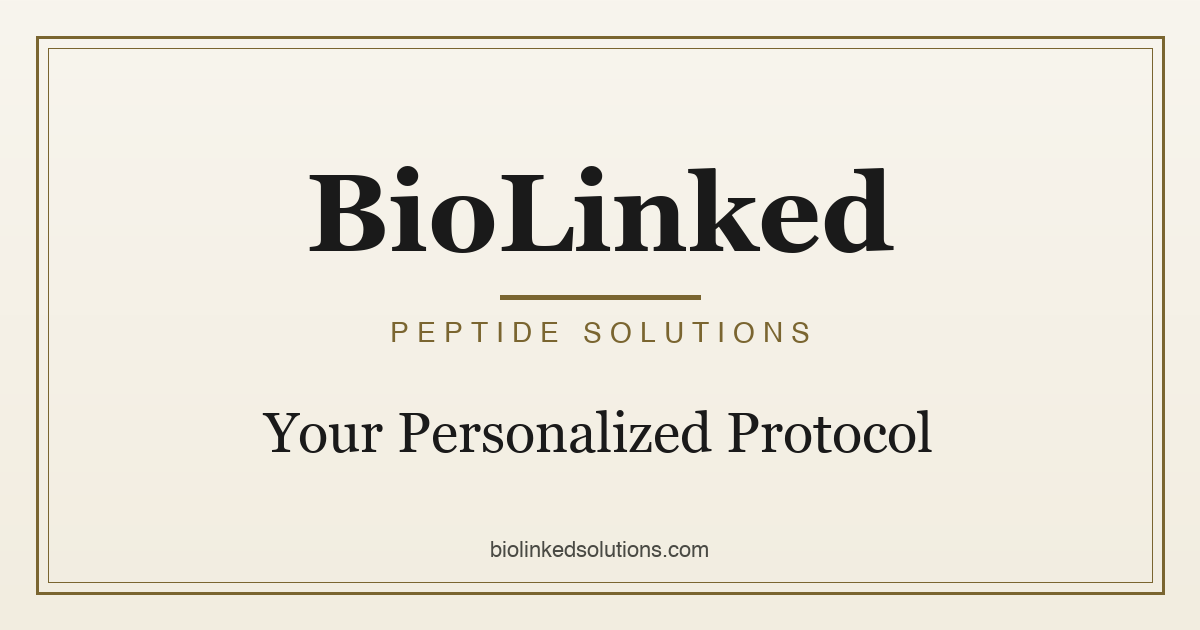
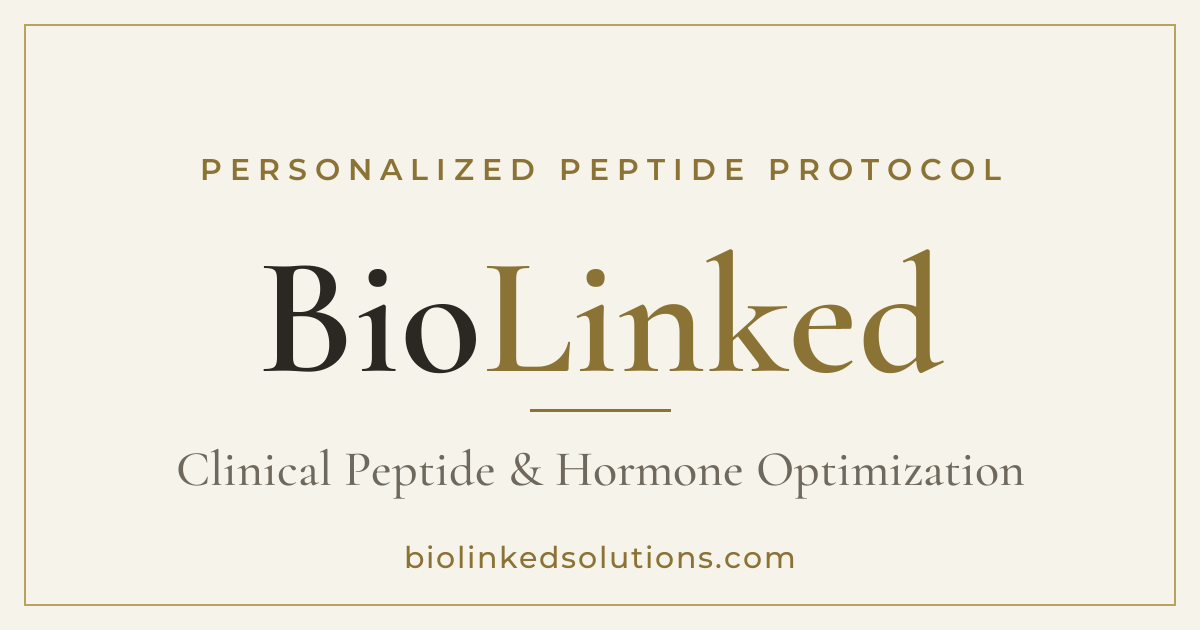
og: generate new BioLinked card via make_og.py + bump og:image to ?v=2 on all 52 client pages so iMessage/RCS fetches the new card instead of the cached old one. Script generates a 1200x630 cream card with "PERSONALIZED PEPTIDE PROTOCOL" gold eyebrow, "Bio" (charcoal) + "Linked" (gold) split brand w

diff --git a/aburr/index.html b/aburr/index.html
@@ -11,7 +11,7 @@
 <meta property="og:site_name" content="BioLinked Solutions">
 <meta property="og:title" content="Your BioLinked Protocol">
 <meta property="og:description" content="Personalized peptide protocol — saved for quick reference.">
-<meta property="og:image" content="https://biolinkedsolutions.com/og-image.png">
+<meta property="og:image" content="https://biolinkedsolutions.com/og-image.png?v=2">
 <meta property="og:image:width" content="1200">
 <meta property="og:image:height" content="630">
 <meta property="og:image:alt" content="BioLinked — Peptide Solutions">
@@ -19,7 +19,7 @@
 <meta name="twitter:card" content="summary_large_image">
 <meta name="twitter:title" content="Your BioLinked Protocol">
 <meta name="twitter:description" content="Personalized peptide protocol — saved for quick reference.">
-<meta name="twitter:image" content="https://biolinkedsolutions.com/og-image.png">
+<meta name="twitter:image" content="https://biolinkedsolutions.com/og-image.png?v=2">
 <!-- PWA — installable home-screen app -->
 <link rel="manifest" href="/aburr/manifest.json">
 <link rel="apple-touch-icon" href="/icon-180.png">

diff --git a/agreen/index.html b/agreen/index.html
@@ -11,7 +11,7 @@
 <meta property="og:site_name" content="BioLinked Solutions">
 <meta property="og:title" content="Your BioLinked Protocol">
 <meta property="og:description" content="Personalized peptide protocol — saved for quick reference.">
-<meta property="og:image" content="https://biolinkedsolutions.com/og-image.png">
+<meta property="og:image" content="https://biolinkedsolutions.com/og-image.png?v=2">
 <meta property="og:image:width" content="1200">
 <meta property="og:image:height" content="630">
 <meta property="og:image:alt" content="BioLinked — Peptide Solutions">
@@ -19,7 +19,7 @@
 <meta name="twitter:card" content="summary_large_image">
 <meta name="twitter:title" content="Your BioLinked Protocol">
 <meta name="twitter:description" content="Personalized peptide protocol — saved for quick reference.">
-<meta name="twitter:image" content="https://biolinkedsolutions.com/og-image.png">
+<meta name="twitter:image" content="https://biolinkedsolutions.com/og-image.png?v=2">
 <!-- PWA — installable home-screen app -->
 <link rel="manifest" href="/agreen/manifest.json">
 <link rel="apple-touch-icon" href="/icon-180.png">

diff --git a/ahartman/index.html b/ahartman/index.html
@@ -11,7 +11,7 @@
 <meta property="og:site_name" content="BioLinked Solutions">
 <meta property="og:title" content="Your BioLinked Protocol">
 <meta property="og:description" content="Personalized peptide protocol — saved for quick reference.">
-<meta property="og:image" content="https://biolinkedsolutions.com/og-image.png">
+<meta property="og:image" content="https://biolinkedsolutions.com/og-image.png?v=2">
 <meta property="og:image:width" content="1200">
 <meta property="og:image:height" content="630">
 <meta property="og:image:alt" content="BioLinked — Peptide Solutions">
@@ -19,7 +19,7 @@
 <meta name="twitter:card" content="summary_large_image">
 <meta name="twitter:title" content="Your BioLinked Protocol">
 <meta name="twitter:description" content="Personalized peptide protocol — saved for quick reference.">
-<meta name="twitter:image" content="https://biolinkedsolutions.com/og-image.png">
+<meta name="twitter:image" content="https://biolinkedsolutions.com/og-image.png?v=2">
 <!-- PWA — installable home-screen app -->
 <link rel="manifest" href="/ahartman/manifest.json">
 <link rel="apple-touch-icon" href="/icon-180.png">

diff --git a/awilson/index.html b/awilson/index.html
@@ -11,7 +11,7 @@
 <meta property="og:site_name" content="BioLinked Solutions">
 <meta property="og:title" content="Your BioLinked Protocol">
 <meta property="og:description" content="Personalized peptide protocol — saved for quick reference.">
-<meta property="og:image" content="https://biolinkedsolutions.com/og-image.png">
+<meta property="og:image" content="https://biolinkedsolutions.com/og-image.png?v=2">
 <meta property="og:image:width" content="1200">
 <meta property="og:image:height" content="630">
 <meta property="og:image:alt" content="BioLinked — Peptide Solutions">
@@ -19,7 +19,7 @@
 <meta name="twitter:card" content="summary_large_image">
 <meta name="twitter:title" content="Your BioLinked Protocol">
 <meta name="twitter:description" content="Personalized peptide protocol — saved for quick reference.">
-<meta name="twitter:image" content="https://biolinkedsolutions.com/og-image.png">
+<meta name="twitter:image" content="https://biolinkedsolutions.com/og-image.png?v=2">
 <link rel="manifest" href="/awilson/manifest.json">
 <link rel="apple-touch-icon" href="/icon-180.png">
 <meta name="apple-mobile-web-app-capable" content="yes">

diff --git a/bdelorenzo/index.html b/bdelorenzo/index.html
@@ -11,7 +11,7 @@
 <meta property="og:site_name" content="BioLinked Solutions">
 <meta property="og:title" content="Your BioLinked Protocol">
 <meta property="og:description" content="Personalized peptide protocol — saved for quick reference.">
-<meta property="og:image" content="https://biolinkedsolutions.com/og-image.png">
+<meta property="og:image" content="https://biolinkedsolutions.com/og-image.png?v=2">
 <meta property="og:image:width" content="1200">
 <meta property="og:image:height" content="630">
 <meta property="og:image:alt" content="BioLinked — Peptide Solutions">
@@ -19,7 +19,7 @@
 <meta name="twitter:card" content="summary_large_image">
 <meta name="twitter:title" content="Your BioLinked Protocol">
 <meta name="twitter:description" content="Personalized peptide protocol — saved for quick reference.">
-<meta name="twitter:image" content="https://biolinkedsolutions.com/og-image.png">
+<meta name="twitter:image" content="https://biolinkedsolutions.com/og-image.png?v=2">
 <link rel="manifest" href="/bdelorenzo/manifest.json">
 <link rel="apple-touch-icon" href="/icon-180.png">
 <meta name="apple-mobile-web-app-capable" content="yes">

diff --git a/benhartman/index.html b/benhartman/index.html
@@ -11,7 +11,7 @@
 <meta property="og:site_name" content="BioLinked Solutions">
 <meta property="og:title" content="Your BioLinked Protocol">
 <meta property="og:description" content="Personalized peptide protocol — saved for quick reference.">
-<meta property="og:image" content="https://biolinkedsolutions.com/og-image.png">
+<meta property="og:image" content="https://biolinkedsolutions.com/og-image.png?v=2">
 <meta property="og:image:width" content="1200">
 <meta property="og:image:height" content="630">
 <meta property="og:image:alt" content="BioLinked — Peptide Solutions">
@@ -19,7 +19,7 @@
 <meta name="twitter:card" content="summary_large_image">
 <meta name="twitter:title" content="Your BioLinked Protocol">
 <meta name="twitter:description" content="Personalized peptide protocol — saved for quick reference.">
-<meta name="twitter:image" content="https://biolinkedsolutions.com/og-image.png">
+<meta name="twitter:image" content="https://biolinkedsolutions.com/og-image.png?v=2">
 <link rel="manifest" href="/benhartman/manifest.json">
 <link rel="apple-touch-icon" href="/icon-180.png">
 <meta name="apple-mobile-web-app-capable" content="yes">

diff --git a/bhartman/index.html b/bhartman/index.html
@@ -11,7 +11,7 @@
 <meta property="og:site_name" content="BioLinked Solutions">
 <meta property="og:title" content="Your BioLinked Protocol">
 <meta property="og:description" content="Personalized peptide protocol — saved for quick reference.">
-<meta property="og:image" content="https://biolinkedsolutions.com/og-image.png">
+<meta property="og:image" content="https://biolinkedsolutions.com/og-image.png?v=2">
 <meta property="og:image:width" content="1200">
 <meta property="og:image:height" content="630">
 <meta property="og:image:alt" content="BioLinked — Peptide Solutions">
@@ -19,7 +19,7 @@
 <meta name="twitter:card" content="summary_large_image">
 <meta name="twitter:title" content="Your BioLinked Protocol">
 <meta name="twitter:description" content="Personalized peptide protocol — saved for quick reference.">
-<meta name="twitter:image" content="https://biolinkedsolutions.com/og-image.png">
+<meta name="twitter:image" content="https://biolinkedsolutions.com/og-image.png?v=2">
 <link rel="manifest" href="/bhartman/manifest.json">
 <link rel="apple-touch-icon" href="/icon-180.png">
 <meta name="apple-mobile-web-app-capable" content="yes">

diff --git a/bpollard/index.html b/bpollard/index.html
@@ -11,7 +11,7 @@
 <meta property="og:site_name" content="BioLinked Solutions">
 <meta property="og:title" content="Your BioLinked Protocol">
 <meta property="og:description" content="Personalized peptide protocol — saved for quick reference.">
-<meta property="og:image" content="https://biolinkedsolutions.com/og-image.png">
+<meta property="og:image" content="https://biolinkedsolutions.com/og-image.png?v=2">
 <meta property="og:image:width" content="1200">
 <meta property="og:image:height" content="630">
 <meta property="og:image:alt" content="BioLinked — Peptide Solutions">
@@ -19,7 +19,7 @@
 <meta name="twitter:card" content="summary_large_image">
 <meta name="twitter:title" content="Your BioLinked Protocol">
 <meta name="twitter:description" content="Personalized peptide protocol — saved for quick reference.">
-<meta name="twitter:image" content="https://biolinkedsolutions.com/og-image.png">
+<meta name="twitter:image" content="https://biolinkedsolutions.com/og-image.png?v=2">
 <!-- PWA — installable home-screen app -->
 <link rel="manifest" href="/bpollard/manifest.json">
 <link rel="apple-touch-icon" href="/icon-180.png">

diff --git a/bspeidell/index.html b/bspeidell/index.html
@@ -11,7 +11,7 @@
 <meta property="og:site_name" content="BioLinked Solutions">
 <meta property="og:title" content="Your BioLinked Protocol">
 <meta property="og:description" content="Personalized peptide protocol — saved for quick reference.">
-<meta property="og:image" content="https://biolinkedsolutions.com/og-image.png">
+<meta property="og:image" content="https://biolinkedsolutions.com/og-image.png?v=2">
 <meta property="og:image:width" content="1200">
 <meta property="og:image:height" content="630">
 <meta property="og:image:alt" content="BioLinked — Peptide Solutions">
@@ -19,7 +19,7 @@
 <meta name="twitter:card" content="summary_large_image">
 <meta name="twitter:title" content="Your BioLinked Protocol">
 <meta name="twitter:description" content="Personalized peptide protocol — saved for quick reference.">
-<meta name="twitter:image" content="https://biolinkedsolutions.com/og-image.png">
+<meta name="twitter:image" content="https://biolinkedsolutions.com/og-image.png?v=2">
 <!-- PWA — installable home-screen app -->
 <link rel="manifest" href="/bspeidell/manifest.json">
 <link rel="apple-touch-icon" href="/icon-180.png">

diff --git a/cesparza/index.html b/cesparza/index.html
@@ -11,7 +11,7 @@
 <meta property="og:site_name" content="BioLinked Solutions">
 <meta property="og:title" content="Your BioLinked Protocol">
 <meta property="og:description" content="Personalized peptide protocol — saved for quick reference.">
-<meta property="og:image" content="https://biolinkedsolutions.com/og-image.png">
+<meta property="og:image" content="https://biolinkedsolutions.com/og-image.png?v=2">
 <meta property="og:image:width" content="1200">
 <meta property="og:image:height" content="630">
 <meta property="og:image:alt" content="BioLinked — Peptide Solutions">
@@ -19,7 +19,7 @@
 <meta name="twitter:card" content="summary_large_image">
 <meta name="twitter:title" content="Your BioLinked Protocol">
 <meta name="twitter:description" content="Personalized peptide protocol — saved for quick reference.">
-<meta name="twitter:image" content="https://biolinkedsolutions.com/og-image.png">
+<meta name="twitter:image" content="https://biolinkedsolutions.com/og-image.png?v=2">
 <link rel="manifest" href="/cesparza/manifest.json">
 <link rel="apple-touch-icon" href="/icon-180.png">
 <meta name="apple-mobile-web-app-capable" content="yes">

diff --git a/chartman/index.html b/chartman/index.html
@@ -11,7 +11,7 @@
 <meta property="og:site_name" content="BioLinked Solutions">
 <meta property="og:title" content="Your BioLinked Protocol">
 <meta property="og:description" content="Personalized peptide protocol — saved for quick reference.">
-<meta property="og:image" content="https://biolinkedsolutions.com/og-image.png">
+<meta property="og:image" content="https://biolinkedsolutions.com/og-image.png?v=2">
 <meta property="og:image:width" content="1200">
 <meta property="og:image:height" content="630">
 <meta property="og:image:alt" content="BioLinked — Peptide Solutions">
@@ -19,7 +19,7 @@
 <meta name="twitter:card" content="summary_large_image">
 <meta name="twitter:title" content="Your BioLinked Protocol">
 <meta name="twitter:description" content="Personalized peptide protocol — saved for quick reference.">
-<meta name="twitter:image" content="https://biolinkedsolutions.com/og-image.png">
+<meta name="twitter:image" content="https://biolinkedsolutions.com/og-image.png?v=2">
 <link rel="manifest" href="/chartman/manifest.json">
 <link rel="apple-touch-icon" href="/icon-180.png">
 <meta name="apple-mobile-web-app-capable" content="yes">

diff --git a/cmaclean/index.html b/cmaclean/index.html
@@ -11,7 +11,7 @@
 <meta property="og:site_name" content="BioLinked Solutions">
 <meta property="og:title" content="Your BioLinked Protocol">
 <meta property="og:description" content="Personalized peptide protocol — saved for quick reference.">
-<meta property="og:image" content="https://biolinkedsolutions.com/og-image.png">
+<meta property="og:image" content="https://biolinkedsolutions.com/og-image.png?v=2">
 <meta property="og:image:width" content="1200">
 <meta property="og:image:height" content="630">
 <meta property="og:image:alt" content="BioLinked — Peptide Solutions">
@@ -19,7 +19,7 @@
 <meta name="twitter:card" content="summary_large_image">
 <meta name="twitter:title" content="Your BioLinked Protocol">
 <meta name="twitter:description" content="Personalized peptide protocol — saved for quick reference.">
-<meta name="twitter:image" content="https://biolinkedsolutions.com/og-image.png">
+<meta name="twitter:image" content="https://biolinkedsolutions.com/og-image.png?v=2">
 <link rel="manifest" href="/cmaclean/manifest.json">
 <link rel="apple-touch-icon" href="/icon-180.png">
 <meta name="apple-mobile-web-app-capable" content="yes">